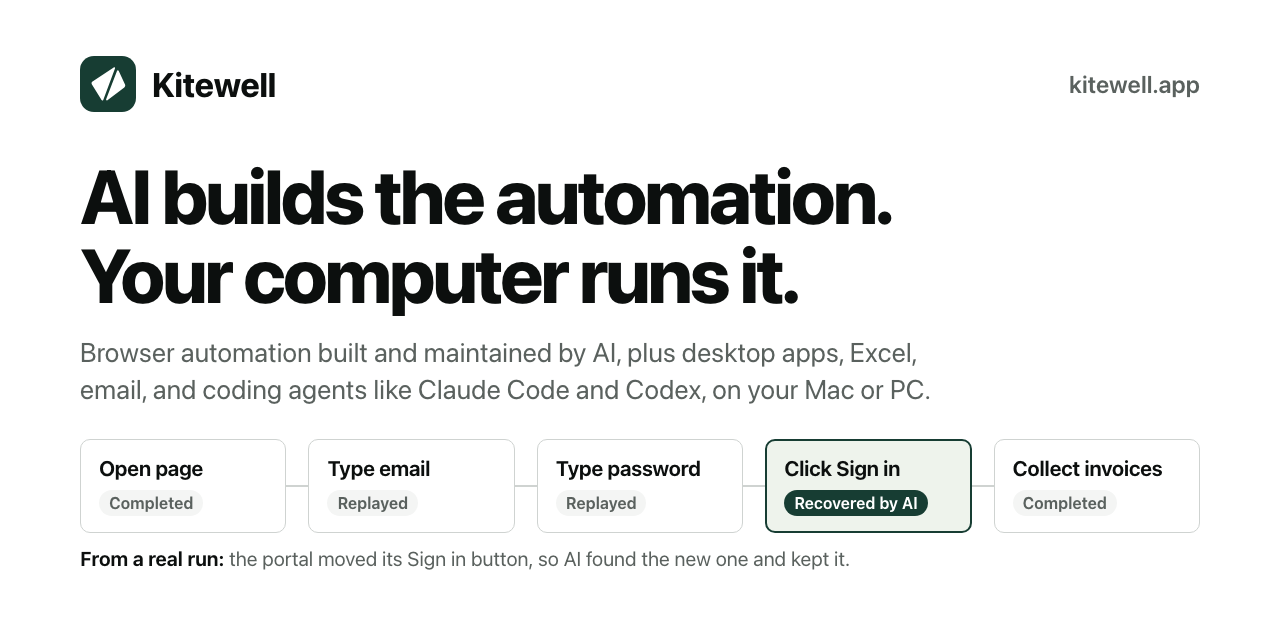
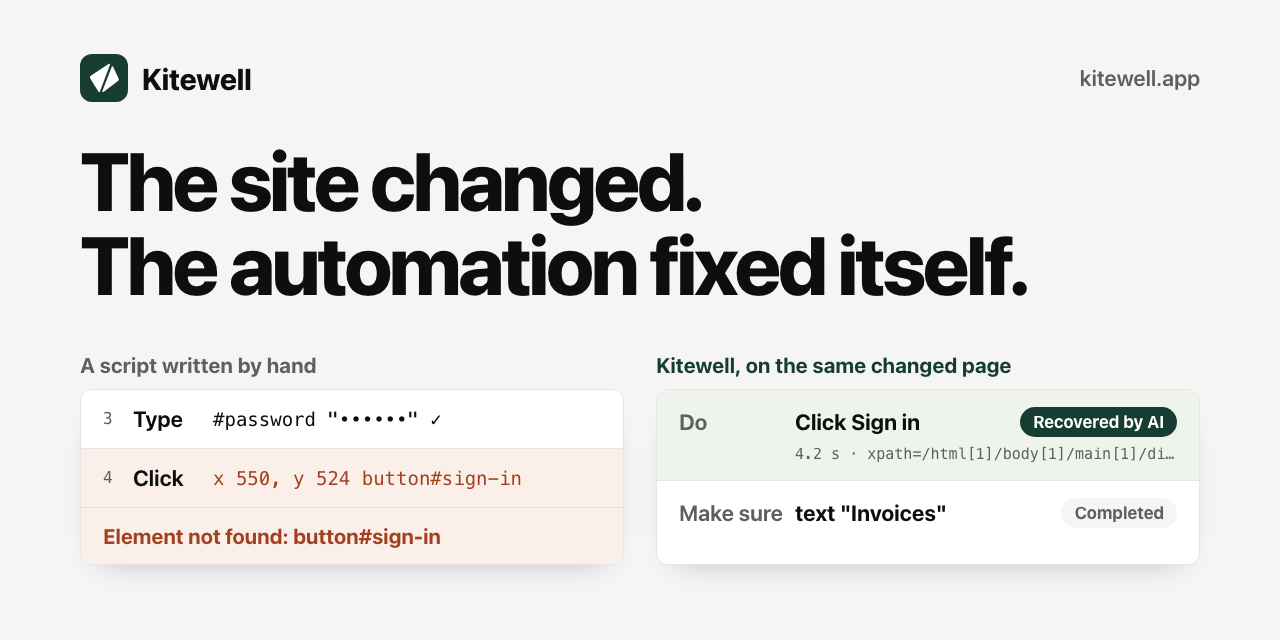
Make the social card show the automation fixing itself
The first card was mostly text and a drawn step strip. The new one
puts the one claim only Kitewell can show in the headline, and backs
it with the real run: the hand-written script fails on the changed
page while Kitewell's run recovers the same click.

diff --git a/.github/readme/social-preview.html b/.github/readme/social-preview.html
@@ -6,26 +6,39 @@
   :root {
     --bg: #ffffff; --sunk: #f4f5f4; --ink: #0c0f0e; --muted: #5a615e;
     --line: #e4e6e5; --line-strong: #cfd3d1; --accent: #173d33; --tint: #eef3ec;
+    --bad-ink: #a3401f; --bad-bg: #fbefe9;
     --sans: ui-sans-serif, -apple-system, BlinkMacSystemFont, "Segoe UI", "Hiragino Sans", sans-serif;
+    --mono: ui-monospace, "SF Mono", Menlo, Consolas, monospace;
   }
   * { box-sizing: border-box; margin: 0; padding: 0; }
-  html, body { width: 1280px; height: 640px; background: var(--bg); overflow: hidden; }
-  body { font-family: var(--sans); color: var(--ink); padding: 56px 80px 0; -webkit-font-smoothing: antialiased; }
+  html, body { width: 1280px; height: 640px; overflow: hidden; }
+  body { background: var(--sunk); font-family: var(--sans); color: var(--ink); padding: 54px 80px 0; -webkit-font-smoothing: antialiased; }
   .top { display: flex; align-items: center; justify-content: space-between; }
-  .brand { display: flex; align-items: center; gap: 16px; font-size: 34px; font-weight: 750; letter-spacing: -0.5px; }
-  .brand svg { width: 56px; height: 56px; display: block; }
-  .site { font-size: 24px; font-weight: 600; color: var(--muted); }
-  h1 { margin-top: 44px; font-size: 76px; line-height: 1.04; font-weight: 800; letter-spacing: -2.8px; }
-  .sub { margin-top: 20px; font-size: 27px; line-height: 1.35; color: var(--muted); }
-  .record { margin-top: 32px; display: flex; align-items: stretch; gap: 0; }
-  .step { flex: 1; border: 1px solid var(--line-strong); border-radius: 10px; padding: 16px 18px 16px; background: var(--bg); }
-  .step + .link { width: 22px; align-self: center; height: 2px; background: var(--line-strong); }
-  .what { font-size: 21px; font-weight: 650; letter-spacing: -0.2px; white-space: nowrap; }
-  .pill { display: inline-block; margin-top: 10px; font-size: 16px; font-weight: 650; padding: 4px 10px; border-radius: 999px; background: var(--sunk); color: var(--muted); }
-  .step.fixed { border: 2px solid var(--accent); background: var(--tint); padding: 15px 17px; }
-  .step.fixed .pill { background: var(--accent); color: #ffffff; }
-  .caption { margin-top: 14px; font-size: 20px; color: var(--muted); }
-  .caption strong { color: var(--ink); font-weight: 650; }
+  .brand { display: flex; align-items: center; gap: 14px; font-size: 30px; font-weight: 750; letter-spacing: -0.5px; }
+  .brand svg { width: 48px; height: 48px; display: block; }
+  .site { font-size: 22px; font-weight: 600; color: var(--muted); }
+  h1 { margin-top: 36px; font-size: 82px; line-height: 1.03; font-weight: 800; letter-spacing: -3.2px; }
+  .pair { margin-top: 46px; display: grid; grid-template-columns: minmax(0, 1fr) minmax(0, 1fr); grid-template-rows: auto auto; column-gap: 32px; row-gap: 12px; }
+  .label { font-size: 21px; font-weight: 700; color: var(--muted); letter-spacing: 0.1px; }
+  .label.ours { color: var(--accent); }
+  .panel { background: var(--bg); border: 1px solid var(--line); border-radius: 12px; overflow: hidden; box-shadow: 0 14px 30px -22px rgba(0,0,0,.35); }
+  .row { display: grid; grid-template-columns: 30px 80px minmax(0, 1fr); align-items: center; padding: 16px 22px; border-top: 1px solid var(--line); font-size: 22px; }
+  .row:first-child { border-top: 0; }
+  .n { font-family: var(--mono); font-size: 16px; color: var(--muted); }
+  .verb { font-weight: 650; }
+  .arg { font-family: var(--mono); font-size: 19px; white-space: nowrap; overflow: hidden; text-overflow: ellipsis; }
+  .row.bad { background: var(--bad-bg); }
+  .row.bad .arg { color: var(--bad-ink); }
+  .error { padding: 16px 22px; border-top: 1px solid #f1d9cf; background: var(--bad-bg); color: var(--bad-ink); font-weight: 700; font-size: 21px; }
+  .op { padding: 17px 22px; border-top: 1px solid var(--line); }
+  .op:first-child { border-top: 0; }
+  .op.fixed { background: var(--tint); }
+  .head { display: flex; align-items: center; gap: 12px; font-size: 22px; }
+  .head .kind { font-weight: 650; color: var(--muted); width: 104px; flex: none; }
+  .head .what { font-weight: 700; flex: 1; white-space: nowrap; overflow: hidden; text-overflow: ellipsis; }
+  .status { flex: none; font-size: 17px; font-weight: 700; padding: 5px 13px; border-radius: 999px; background: var(--sunk); color: var(--muted); }
+  .op.fixed .status { background: var(--accent); color: #ffffff; }
+  .detail { margin: 8px 0 0 116px; font-family: var(--mono); font-size: 15px; color: var(--muted); white-space: nowrap; overflow: hidden; text-overflow: ellipsis; }
 </style>
 </head>
 <body>
@@ -36,19 +49,24 @@
     </div>
     <div class="site">kitewell.app</div>
   </div>
-  <h1>AI builds the automation.<br>Your computer runs it.</h1>
-  <p class="sub">Browser automation built and maintained by AI, plus desktop apps, Excel,<br>email, and coding agents like Claude Code and Codex, on your Mac or PC.</p>
-  <div class="record" aria-label="What the browser did">
-    <div class="step"><div class="what">Open page</div><span class="pill">Completed</span></div>
-    <div class="link"></div>
-    <div class="step"><div class="what">Type email</div><span class="pill">Replayed</span></div>
-    <div class="link"></div>
-    <div class="step"><div class="what">Type password</div><span class="pill">Replayed</span></div>
-    <div class="link"></div>
-    <div class="step fixed"><div class="what">Click Sign in</div><span class="pill">Recovered by AI</span></div>
-    <div class="link"></div>
-    <div class="step"><div class="what">Collect invoices</div><span class="pill">Completed</span></div>
+  <h1>The site changed.<br>The automation fixed itself.</h1>
+  <div class="pair">
+      <div class="label">A script written by hand</div>
+      <div class="label ours">Kitewell, on the same changed page</div>
+      <div class="panel">
+        <div class="row"><span class="n">3</span><span class="verb">Type</span><span class="arg">#password "••••••" ✓</span></div>
+        <div class="row bad"><span class="n">4</span><span class="verb">Click</span><span class="arg">x 550, y 524 button#sign-in</span></div>
+        <div class="error">Element not found: button#sign-in</div>
+      </div>
+      <div class="panel">
+        <div class="op fixed">
+          <div class="head"><span class="kind">Do</span><span class="what">Click Sign in</span><span class="status">Recovered by AI</span></div>
+          <div class="detail">4.2 s · xpath=/html[1]/body[1]/main[1]/div[1]/form[1]/div[4]/button[1]</div>
+        </div>
+        <div class="op">
+          <div class="head"><span class="kind">Make sure</span><span class="what">text "Invoices"</span><span class="status">Completed</span></div>
+        </div>
+      </div>
   </div>
-  <p class="caption"><strong>From a real run:</strong> the portal moved its Sign in button, so AI found the new one and kept it.</p>
 </body>
 </html>
